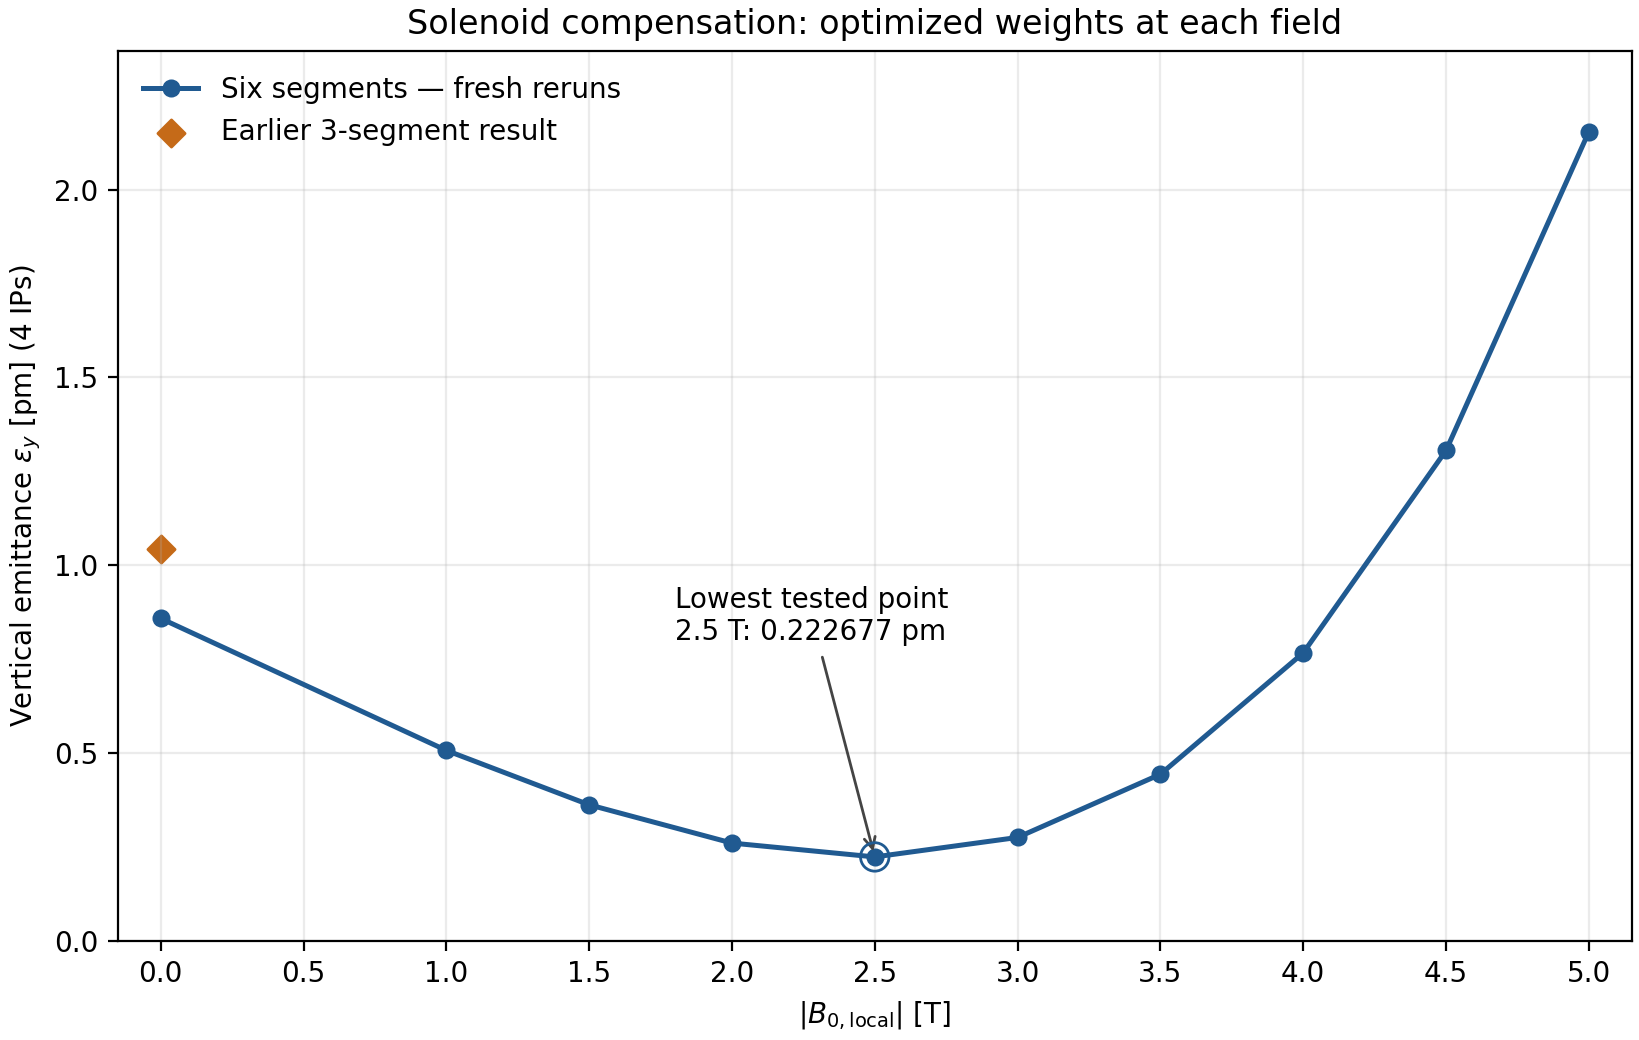
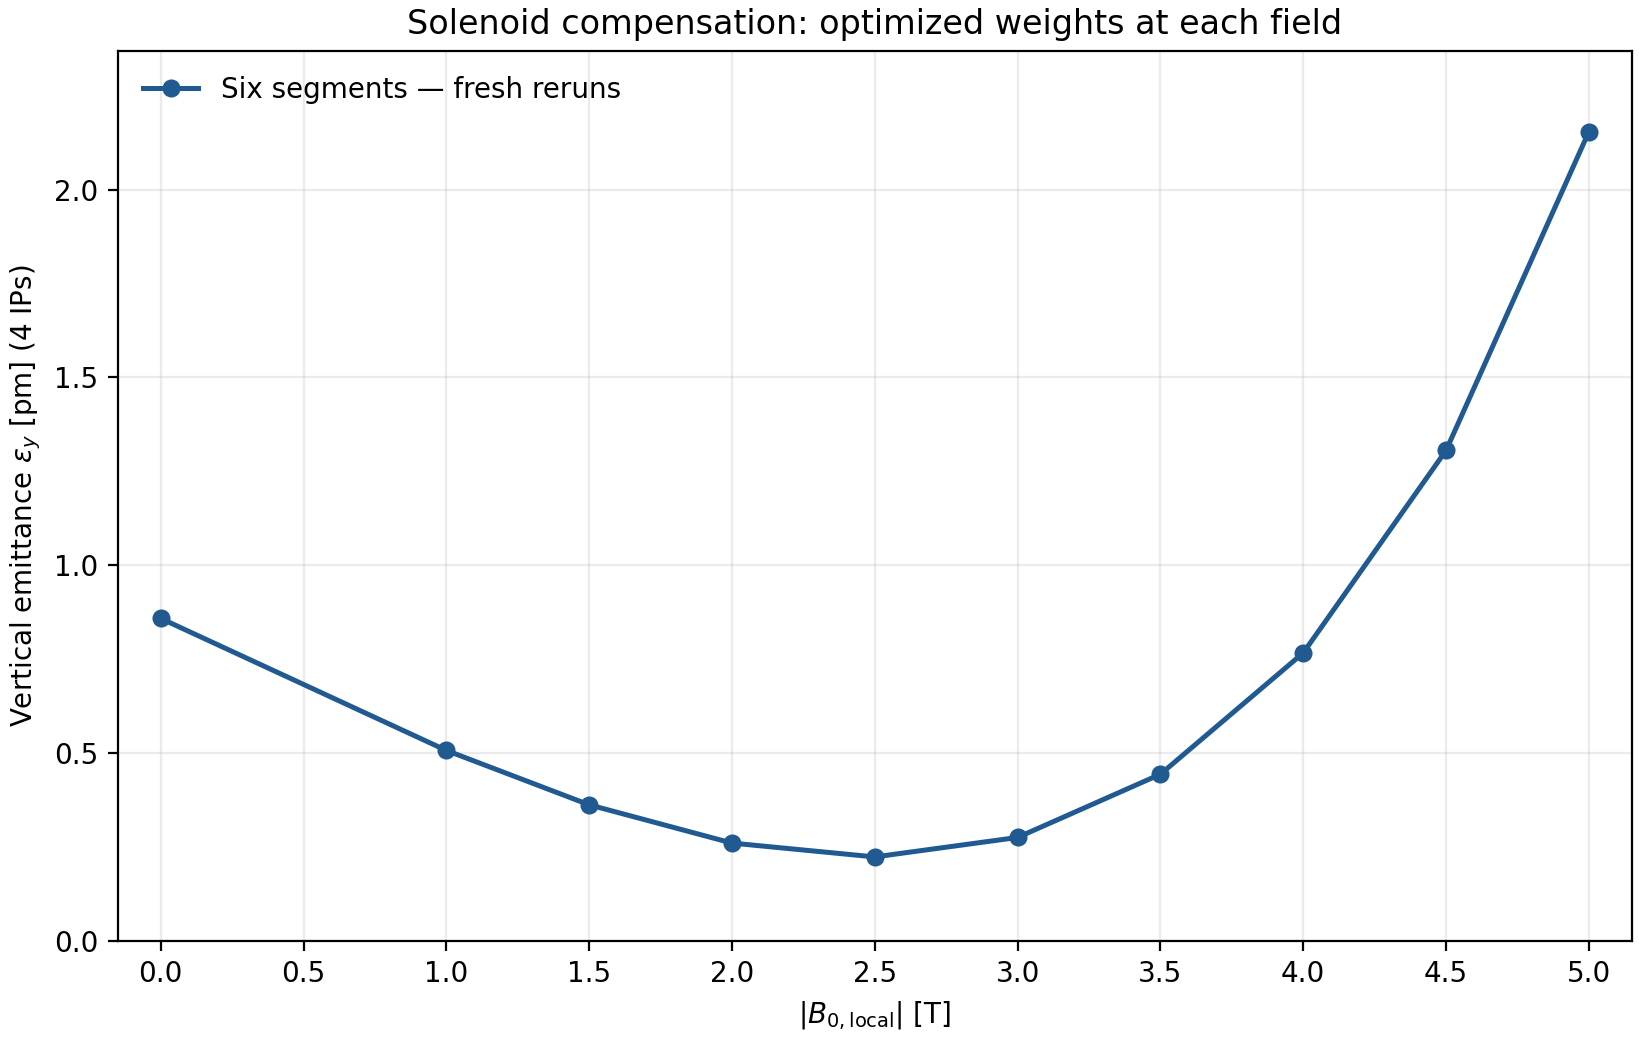
Set optimized minus-2.5 T case and simplify field scan plot

diff --git a/010_parametric_version.py b/010_parametric_version.py
@@ -25,11 +25,11 @@ theta = -0.015
 B0 = 3 # T
 r0 = 0.13
 
-B0_local = -2.0 * B0 / 3.          # T
-r0_local = 0.1499                  # m
-l_local = 0.6                      # m
+B0_local = -2.5 # T
+r0_local = 0.1499 # m
+l_local = 0.6 # m
 
-sol_half_length = 1.25                # m; screening coils also start here
+sol_half_length = 1.25 # m; screening coils also start here
 
 # First corrector segments: positive distances from the IP [m], mirrored
 # on the left. Specify exactly one powering option per segment:
@@ -38,11 +38,11 @@ sol_half_length = 1.25                # m; screening coils also start here
 # Weights are used as given, without normalization. Each side has its own
 # optimization knob. All segments share the knob with relative weights.
 first_corr_segments = [
-    {'s_range': (1.53, 1.58), 'weight': 0.2648294952640936},
-    {'s_range': (1.58, 1.63), 'weight': 0.250815344329937},
-    {'s_range': (1.63, 1.68), 'weight': 0.2651494981081337},
-    {'s_range': (1.68, 1.73), 'weight': 0.3180567693449662},
-    {'s_range': (1.78, 1.965), 'weight': 2.1738018106168324},
+    {'s_range': (1.53, 1.58), 'weight': 0.09490986203830125},
+    {'s_range': (1.58, 1.63), 'weight': 0.12312643703437282},
+    {'s_range': (1.63, 1.68), 'weight': 0.17268036196465997},
+    {'s_range': (1.68, 1.73), 'weight': 0.263448059275075},
+    {'s_range': (1.78, 1.965), 'weight': 2.4251717413161735},
     {'s_range': (2.015, 2.2), 'weight': 1.0},
 ]
 

diff --git a/011_rerun_field_scan.py b/011_rerun_field_scan.py
@@ -184,17 +184,6 @@ def plot_results(cases, results, output_dir):
     y = [results[c['case_id']]['rerun_emittance_pm_4ip'] for c in scan]
     fig, ax = plt.subplots(figsize=(8.2, 5.2), layout='constrained')
     ax.plot(x, y, 'o-', color='#205a91', lw=1.8, ms=5.5, label='Six segments — fresh reruns')
-    for case in cases:
-        if len(case['segments']) != 6:
-            ax.scatter(abs(case['parameters']['B0_local']),
-                       results[case['case_id']]['rerun_emittance_pm_4ip'],
-                       marker='D', s=48, color='#c56a18',
-                       label=f"Earlier {len(case['segments'])}-segment result")
-    best = min(range(len(y)), key=y.__getitem__)
-    ax.scatter(x[best], y[best], s=105, facecolors='none', edgecolors='#205a91', zorder=4)
-    ax.annotate(f'Lowest tested point\n{x[best]:g} T: {y[best]:.6f} pm',
-                xy=(x[best], y[best]), xytext=(1.8, 0.8),
-                arrowprops=dict(arrowstyle='->', color='#444444'), fontsize=10)
     ax.set(xlabel=r'$|B_{0,\mathrm{local}}|$ [T]',
            ylabel=r'Vertical emittance $\varepsilon_y$ [pm] (4 IPs)',
            title='Solenoid compensation: optimized weights at each field',
